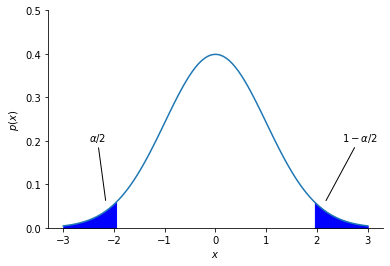
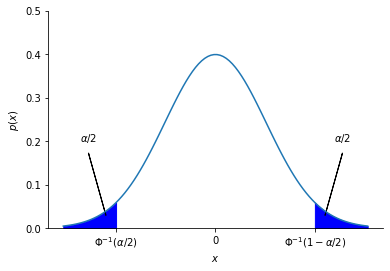
deploy: 66685e4f59727761f502bcd9a341b9cfc5183018

diff --git a/searchindex.js b/searchindex.js
@@ -1,1 +1,1 @@
-Search.setIndex({docnames:[".pytest_cache/README","CONTRIBUTING","GSOC2022","README","auto_generated_scripts/README","gan/README","intro","notebooks/README","notebooks/anscombes_quartet","notebooks/bimodal_dist_plot","notebooks/binom_dist_plot","notebooks/discrete_prob_dist_plot","notebooks/gauss_plot","notebooks/quantile_plot","pull_request_template","scratchpad","vae/README"],envversion:{"sphinx.domains.c":2,"sphinx.domains.changeset":1,"sphinx.domains.citation":1,"sphinx.domains.cpp":4,"sphinx.domains.index":1,"sphinx.domains.javascript":2,"sphinx.domains.math":2,"sphinx.domains.python":3,"sphinx.domains.rst":2,"sphinx.domains.std":2,"sphinx.ext.intersphinx":1,sphinx:56},filenames:[".pytest_cache/README.md","CONTRIBUTING.md","GSOC2022.md","README.md","auto_generated_scripts/README.md","gan/README.md","intro.md","notebooks/README.md","notebooks/anscombes_quartet.ipynb","notebooks/bimodal_dist_plot.ipynb","notebooks/binom_dist_plot.ipynb","notebooks/discrete_prob_dist_plot.ipynb","notebooks/gauss_plot.ipynb","notebooks/quantile_plot.ipynb","pull_request_template.md","scratchpad.ipynb","vae/README.md"],objects:{},objnames:{},objtypes:{},terms:{"0":[5,8,9,10,11,12,13,15,16],"00":[2,8],"00000":8,"000000":8,"007":3,"025":13,"03":1,"05":9,"0507":15,"0904383444185":15,"1":[1,2,3,5,7,8,9,10,11,12,13,15,16],"10":[1,8,10,11],"100":[10,13],"10012814134508047":15,"105":15,"106":15,"107":15,"109":15,"11":[8,11],"110":15,"12":[2,8,15],"12262":8,"123249":8,"127269":8,"127439":15,"127629":8,"13":8,"14":8,"15":15,"171":15,"172":15,"173":15,"174":15,"175":15,"18":2,"19":2,"2":[1,8,9,10,11,12,13,15],"20":[8,15],"2021":16,"2022":1,"21":15,"22":15,"2283":15,"23":15,"24":[8,15],"25":10,"2605":15,"264":8,"276":15,"277":15,"2f":8,"2x":15,"3":[3,5,8,12,13,15,16],"3106":15,"3f":8,"4":[2,5,8,10,11,15,16],"5":[8,9,10,11,12,13,15],"500":12,"50000":8,"500909":8,"512":16,"531":15,"532":15,"533":15,"534":15,"535":15,"587":15,"588":15,"589":15,"6":2,"600":[5,9,16],"64":16,"66429":15,"6733112":15,"67794997":15,"69480884":15,"7":[5,8,16],"70073":15,"71":15,"72":15,"73":15,"74":15,"74142355":15,"75":[8,10,15],"7896":15,"8":[5,8,15,16],"8476":15,"8605771":15,"890028194425":15,"9":[8,10,15],"90817920299":15,"92109627":15,"975":13,"99159336":15,"default":7,"do":[0,1,3],"final":9,"function":15,"import":[1,3,5,8,9,10,11,12,13,15,16],"int":10,"new":1,"null":3,"public":1,"return":[11,15],"try":[5,8,9,10,11,12,13,16],"var":8,"while":15,A:[1,16],For:[2,3,7],If:[1,2],In:[1,2,3,15],It:2,No:[8,9,10,11,12,13],The:[2,3,15],Then:[3,5,16],These:3,To:[3,7,15],_:11,__main__:15,__name__:15,_latexifi:[8,10],_multivariate_norm:15,_src:15,ab_error:15,ab_profit:15,ab_test_demo:15,abdelrahman350:3,about:2,abov:3,absl:[8,9,10,11,12,13],accept:1,access:3,account:3,acknowledg:3,adamnemecek:3,add:[1,2],addit:3,address:[5,16],advanc:2,adverseri:5,ae:16,after:1,agg:8,agre:1,aim:[5,16],alen1010:3,align:[10,11],all:[1,5,16],alpha:[13,15],alreadi:[1,3,15],also:[5,16],alwai:[2,3],an:[1,2,3,15],anand:[5,16],andrewnc:3,ang:[5,16],ani:[1,2,3,5,7,16],animesh:3,annot:13,annotate_funct:15,anoth:[9,11],anscombes_quartet_:8,anywai:1,appear:15,append:[8,9,10,11,12,13],appli:2,approxim:15,april:2,ar:[1,2,3,5,16],arang:[10,11],arrai:[11,15],arrowprop:13,arrowstyl:13,arviz:1,assum:3,august:2,author:[8,16],auto:4,autoencod:16,autogener:3,automat:[3,4],autoreload:[3,15],ax:[8,9,11,12],b:13,back:[1,8,9,10,11,12,13],backend:15,backend_compil:15,bar:[10,11],base:[5,15,16],baselin:15,bbox_to_anchor:9,befor:2,below:3,best:[1,2],beta:16,bfg:15,bimodaldistribution_latexifi:9,bimodalspike_latexifi:9,binom:10,binomdisttheta:10,bitcast:15,bitcast_convert_typ:15,black:9,blackjax:1,block:[5,16],blue:8,book:[1,2,3,6,8],both:9,broken:2,built_c:15,calcul:9,call:[2,15],can:[1,2,3,5,10,11,16],candid:2,canonicalize_shap:15,captur:1,categor:15,cd:15,cell:[1,3],center:[10,11],chain:15,chang:[3,10,11,15],chapter:3,check:[1,15],chex:1,chip:15,chmod:[5,16],clone:[1,3],close:2,cloud:3,code:[2,3,5,6,14,16],codebas:3,colab:[1,14],collect:[5,16],color:[8,9,13],com:[1,3,5,8,15,16],combin:[3,9],command:[3,7],commit:[0,1,2],common:1,commun:1,companion:3,compar:[5,8,16],comparison:[5,16],compil:15,compile_opt:15,comput:[5,15,16],concret:2,config:[5,16],consist:[5,16],contain:[0,3,4,15],content:3,context:15,control:[0,3],convent:1,convert:15,cool:[5,16],coord:15,copi:[1,5,16],core:15,core_on_chip:15,correct:2,correspond:9,count:8,cov:15,cp:[5,16],cpu:[3,8,9,10,11,12,13],creat:[1,3,5,16],cuda:[5,16],cut:3,d:[1,8,16],dai:[1,2],dash:9,dashdot:9,data1:9,data2:9,data:[0,8,9,10,12,15],data_df:8,dataset:[5,8,16],dataset_nam:8,dataset_no:8,dcgan:5,ddof:8,deepmind:1,def:[8,9,10,11,12,15],defin:9,delta_histogram_latexifi:11,delta_prob:11,demo:[3,15],demonstr:2,depend:[1,3],depth:3,design:[1,2],desktop:3,despin:[8,9,10,11,12,13],detail:[2,3],detect:3,dev:[1,3],dev_mod:[7,8,9,10,11,12,13],devic:[5,15,16],df:8,dict:[9,13],differ:[5,8,10,11,15,16],directori:3,discrete_prob_dist_plot:7,disk:15,dispatch:15,distrax:1,distribut:1,distrubut:9,dive:2,doc:[0,1,2],done:15,donwload:[5,16],down:2,download:3,download_celeba:[5,16],draft:[1,2],draw_stat:15,drishtii:8,drishttii:3,dtype:15,duane321:3,dure:3,e:[3,15],e_bas:15,each:3,easiest:3,edg:3,edit:3,editor:3,eekf_logistic_regression_demo:15,effici:2,einop:1,element:15,els:8,email:1,enabl:[5,16],encount:15,ensur:15,enumer:8,env:15,environ:[8,9,10,11,12,13,15],equival:7,error:2,estim:8,etc:3,evalu:9,everi:1,exampl:[1,2,3,5,7,9,10,11,16],except:[8,9,10,11,12,13],execut:[3,7],expect:3,extens:15,extern:1,extra:3,ey:15,eyebal:1,f64:15,f:8,facecolor:13,fall:[8,9,10,11,12,13],feel:2,ff:0,ffvb:15,ffvb_predictive_distribut:15,ffvb_weights_marginals_0:15,ffvb_weights_marginals_1:15,ffvb_weights_marginals_2:15,fig:[11,12,15],fig_height:[8,9,10,12,13],fig_siz:8,figur:[1,3,8,9,10,15],file:[1,3,4,15],filenam:3,fill_between:13,filter:15,final_st:15,find:2,finish:3,first:[1,5,9,16],fit:8,fixtur:0,flag:7,flatten:15,flax:1,float64:15,focu:[5,16],folder:[4,5,7,16],follow:[1,2,3,5,7,10,11,16],fork:1,format:[1,8,9],found:[2,8,9,10,11,12,13],frame:15,free:[2,3],from:[0,1,2,3,4,5,7,8,9,10,11,12,13,15,16],full:11,functool:1,g:[3,9],galv:3,gan:5,garvit9000c:3,gaussian1d_latexifi:12,gaussian:12,gaussiancdf_latexifi:12,gaussianquantile_latexifi:13,gca:[8,9],gener:[1,3,4,5],generate_random:[10,11],gerdm:[1,3],get:[1,3,5,16],gist:1,git:[1,3],github:[2,3,4,8,15],githubusercont:[3,5,16],give:3,go:7,goal:2,googl:[1,3,14,15],gp:5,gpu:[1,3,8,9,10,11,12,13],graph:[9,11],green:8,gui:7,guid:3,ha:[1,3],have:[2,3],here:[1,2],hidden:15,hieuza:3,high:2,hing:16,hlo:15,hour:2,how:2,howev:1,http:[1,3,5,8,15,16],i:[3,8,9],id:15,idea:[5,16],ii:8,iii:8,imag:[15,16],implement:[5,15,16],includ:1,independ:3,indic:1,individu:[1,3],info:[8,9,10,11,12,13,16],inform:[0,3],init_dist:15,init_nois:15,initial_st:15,input:15,insid:[1,3],instal:[1,3,8,9,10,11,12,13],instead:1,instruct:3,interact:[10,11],interest:1,intro:3,ipynb:7,ipython:7,ipywidget:[10,11],issu:[1,2,8,15],its:9,iv:8,jax:[1,2,3,8,9,10,11,12,13,15],jaxlib:[8,9,10,11,12,13],jdf22:3,jit:15,jlh2018:3,jnp:[1,8,9,10,11,12,13,15],jsl:[1,3,15],json:[5,16],june:2,jupyt:3,just:[1,3],k:[9,13,16],kaggl:[5,16],karalleyna:3,kei:[11,15],kevin:[1,3],keyword:1,kf_tracking_demo:[3,15],khanshehjad:3,krasserm:3,krishnamoorthi:[5,16],kzymgch:3,l2:15,label:9,lambda:15,laplac:15,laplace_posterior:15,larg:[1,2,3],last:[1,2,15],latexifi:[8,9,10,11,12,13],lax:15,learn:[2,3,8],least:2,legend:9,len:[9,11,15],leq:12,level:2,lf:0,liang:[5,16],lib:15,librari:[3,5,16],lightn:[5,16],like:[1,3],line:3,line_width:9,linear_model:8,linearregress:8,linen:1,linestyl:9,linewidth:9,link:[1,2,3,5,16],linspac:[8,9,11,12,13],list:[1,3],live:1,load:15,load_dataset:8,load_ext:[3,15],loc:9,localhost:15,logan:5,logcosh:16,logit:15,logreg_biclusters_demo:15,look:1,love:1,m:15,machin:[2,3,15],mahmoud:1,mai:[1,2],main:[1,2,15],make:[1,3,5,16],make_graph:[8,9,10,11,12],mani:[5,16],manual:3,markov:15,mass:11,master:[3,5,16],materi:3,mathcal:9,matplotlib:[1,8,9,10,11,12,13],max:[9,10,11],mcmc:15,mcmc_logistic_posterior_sampl:15,mean:[1,8,9,15],mean_i:8,mean_p:9,mean_x:8,meduri:3,mention:[1,3],merg:2,metadata:15,method:15,min:[10,11],ming:[5,16],minim:15,mit:1,mjsml:[1,3],mkdir:[5,16],ml:2,mle:8,mmd:16,mnt:15,mode:[1,9],model:8,modul:15,mondai:2,more:[0,1,3,8,9,10,11,12,13],most:[3,15],mu:9,multipl:[1,2],multivariate_norm:15,murphi:[1,3],murphyk:[1,3],mvervuurt:3,my:2,my_repo:1,n:[8,9,10,11,15,16],name:[1,8],name_index:8,nappaillav:3,nbinom:10,nealmcb:3,necessari:1,need:[1,3],neoanarika:[3,5],network:[1,5],neural:1,new_dtyp:15,newbie161:3,nirzu97:3,nn:1,none:[8,9,11,15],norm:[9,12,13],normal:[7,9],note:[1,3],notebook:[1,4],np:1,num:8,numpi:[1,8,9,10,11,12,13,15],one:[1,2,3,11],onli:1,op_nam:15,op_typ:15,open:[1,2,3],optax:1,option:[0,15],orang:8,origin:16,os:[8,9,10,11,12,13,15],other:3,our:[2,3],p:[9,10,12,13],packag:[1,3,15],page:3,paper:[5,16],partial:1,particular:1,past:[3,5,16],patch:1,path:[8,9,10,11,12,13],patrick:3,pdf:[7,8,9,10,11,15],peopl:[1,2,3],pep8:1,per:[3,15],perform:14,persist:15,petercerno:3,phi:15,pick:15,pip:[1,3,8,9,10,11,12,13],pixelcnn:16,place:4,platform:3,pleas:[1,2],plot:[3,8,9],plot_util:[8,9,10,11,12,13,15],plt:[1,8,9,10,11,12,13,15],plugin:0,pml:8,png:15,point:9,port:15,power:3,ppf:13,pr:[1,2,11,12],prahitha:3,pre:3,predict:8,present:4,prev_stat:15,print:[8,15],prngkei:[11,15],prob:[10,11],probabilist:[2,3],probml:[1,3,5,8,16],process:15,process_index:15,profil:15,progress:3,project1:15,project:[1,2,5,16],propos:2,provid:[0,3,5,16],pull:[1,2],py:[1,3,5,15,16],pyplot:[1,8,9,10,11,12,13],pyprobml:[1,2,5,15,16],python3:[3,15],python:[1,3,5,15,16],pytorch:[1,5,16],q:[3,5,16],question:2,quick:[5,16],quickli:1,quit:[1,2,3],r:[9,10,13],rais:2,random:[11,15],random_st:11,random_var:12,rang:9,raw:[3,5,16],re:15,read:2,readabl:2,readi:1,recent:15,recommend:2,reconstruct:16,red:[8,9],refer:1,releas:1,relev:2,reload:15,reload_ext:15,remain:3,repeat:11,repli:1,repo:[1,2,3,7],reproduc:[3,5,16],request:[1,2],requir:3,rerun:[8,9,10,11,12,13],reshap:8,respons:1,result:[3,15],reusabl:[5,16],review:[1,14],rewrit:15,rm:[5,16],rng:15,rng_kei:15,rng_ob:15,rng_state:15,root:[5,7,16],rough:3,run:[1,2,5,7,15,16],runtim:3,runtimeerror:15,s:[0,1,2],same:2,sampl:[5,15,16],save:[3,15],save_nam:[11,12],savefig:[8,9,10,11,12,13,15],sayantanauddi:[5,16],scale:9,scan:15,scatter:8,scatter_s:8,scikit:[3,8],scipi:[1,9,10,12,13,15],script:[4,5,8,9,10,11,12,13,15,16],seaborn:[8,9,10,11,12,13],second:[9,15],section:2,see:[0,1,2,3,10,11],seed:11,self:14,separ:15,seq_len:15,seri:[1,3],set:[1,8,9,10,11,12,13],set_titl:8,set_xlabel:[8,11],set_xlim:[8,11],set_xtick:11,set_ylabel:[8,11],set_ylim:8,set_ytick:11,shape:[11,15],share:[1,2],shivaditya:3,should:[1,2,3],show:[11,13,15],sigma:[9,16],similar:1,simpl:[5,16],sinc:3,singl:1,site:15,skill:2,skip:15,sklearn:[1,8],smaller:1,smooth:15,sn:[8,9,10,11,12,13,15],sngan:5,so:[1,2,3],softmax_plot:3,soliman:1,solut:[1,15],solv:2,some:[1,2,3,5,16],someth:1,sort_valu:8,sourc:1,source_fil:15,source_lin:15,space:3,special:15,specifi:2,split:15,squash:1,ssh:3,stage:16,standard:1,stat:[9,10,12,13],state:[3,15],still:1,store:[1,3],str:10,strongli:2,style:1,submit:1,subplot:[11,12],subproblem:2,substrat:1,sum:[9,11],summari:3,summer:[2,3,16],superimport:[1,3],supplementari:3,sure:[1,3,5,16],sy:[8,9,10,11,12,13],tab:8,tackl:[1,2],tag:2,take:4,tensorflow:[1,2,3],tensorflow_dataset:1,tensorflow_prob:1,test:[1,14],textbook:[2,5,16],tf:1,tf_cpp_min_log_level:[8,9,10,11,12,13],tfd:1,tfp:1,than:3,thank:3,thei:[1,3],them:1,theta:10,thi:[0,1,3,4,15],thread:2,time:[1,2],titl:[10,12],to_numpi:8,togeth:3,topic:2,torch:3,tpu:[8,9,10,11,12,13],tpu_chips_per_host_bound:15,tpu_host_bound:15,tpu_mesh_controller_address:15,tpu_mesh_controller_port:15,tpu_visible_devic:15,tpudevic:15,traceback:15,trans_mat:15,transform:[5,16],trick:[5,16],tripletop:3,tuesdai:2,tutori:[1,3],two:[8,16],type:[1,15],typic:1,typo:2,u64:15,unbias:8,under:1,uniform:11,uniform_histogram_latexifi:11,uniform_prob:11,unimpl:15,uniqu:[8,15],updat:1,upgrad:1,url:[3,5,16],us:[1,3,5,7,15,16],user:1,utc:2,vae:[5,16],valu:[8,11],vanilla_va:16,varianc:8,variat:16,variou:3,vb_gauss_cholesky_biclusters_demo:15,version:[0,3],via:[3,4],view:3,virtual:3,vline:9,vm:3,volum:3,vq:16,vscode:3,w0:15,w:15,w_laplac:15,wai:3,want:[1,3],warn:[8,9,10,11,12,13],we:[1,3,5,15,16],websti:[5,16],week:2,weight:[9,15],well:0,were:[5,16],wgan:5,wget:[3,5,16],what:[5,16],when:[1,3],whether:3,which:[0,3,15],width_scale_factor:[8,9,10,11,12,13],within:1,without:7,work:[1,3,5,15,16],workflow:4,would:3,write:[1,2],written:5,x64:15,x:[8,9,10,11,12,13,15],x_fill_left:13,x_fill_right:13,x_rang:8,x_sep_left:13,x_sep_right:13,xla:15,xlabel:[9,10,12,13],xlim:10,xtick:10,xy:13,xytext:13,y:[8,12,15],y_pred:8,yaml:[5,16],yet:3,ylabel:[9,10,12,13],ylim:[10,13],ymax:9,ymin:9,you:[1,2,3,10,11],your:[1,2,5,16],zero:15,zipfil:[5,16],zone:2,zoo:[5,16]},titles:["pytest cache directory","How to Contribute","Guidelines for GSOC 2022 applicants","pyprobml","&lt;no title&gt;","Requirements","Probabilistic Machine Learning","Notebooks","Anscombe\u2019s quartet: Same low order summary statistics","Bimodal distribution (mixture of two 1d Gaussians)","Plots the pmfs of binomial distributions with varying probability of success parameter","Discrete Probability Distribution Plot","CDF and PDF plots of Standard Normal Distribution","CDF and Quantile PDF Plot of Standard Normal Distribution","Description","&lt;no title&gt;","Requirements"],titleterms:{"1d":9,"2":3,"2021":3,"2022":2,"import":14,For:[5,16],The:[5,16],To:[5,16],acknowledg:[5,16],agreement:1,all:3,anscomb:8,applic:2,bimod:9,binomi:10,cach:0,cdf:[12,13],celeba:[5,16],checklist:14,code:1,colab:3,contribut:[1,3],contributor:1,data:[5,16],demo:[10,11],descript:14,develop:7,directori:0,discret:11,distribut:[9,10,11,12,13],download:[5,16],figur:[7,14],gaussian:9,gcp:3,gener:7,github:1,gsoc:[2,3],guidelin:[1,2],how:[1,3],instruct:[5,7,16],issu:14,learn:6,licens:1,local:[3,7],low:8,machin:6,metric:3,mixtur:9,model:[5,16],normal:[12,13],notebook:[3,7],number:14,onli:[5,16],order:8,paramet:10,pdf:[12,13],plot:[10,11,12,13],pmf:10,potenti:14,probabilist:6,probabl:[10,11],problem:14,pyprobml:3,pytest:0,quantil:13,quartet:8,remark:14,requir:[5,16],result:[5,16],run:3,s:8,same:8,save:7,script:3,standard:[12,13],statist:8,step:14,subdirectori:[5,16],success:10,summari:8,them:7,thi:[5,16],tpu:3,train:[5,16],two:9,vari:10,vol:3}})
+Search.setIndex({docnames:[".pytest_cache/README","CONTRIBUTING","GSOC2022","README","auto_generated_scripts/README","gan/README","intro","notebooks/README","notebooks/anscombes_quartet","notebooks/bimodal_dist_plot","notebooks/binom_dist_plot","notebooks/discrete_prob_dist_plot","notebooks/gauss_plot","notebooks/quantile_plot","pull_request_template","scratchpad","vae/README"],envversion:{"sphinx.domains.c":2,"sphinx.domains.changeset":1,"sphinx.domains.citation":1,"sphinx.domains.cpp":4,"sphinx.domains.index":1,"sphinx.domains.javascript":2,"sphinx.domains.math":2,"sphinx.domains.python":3,"sphinx.domains.rst":2,"sphinx.domains.std":2,"sphinx.ext.intersphinx":1,sphinx:56},filenames:[".pytest_cache/README.md","CONTRIBUTING.md","GSOC2022.md","README.md","auto_generated_scripts/README.md","gan/README.md","intro.md","notebooks/README.md","notebooks/anscombes_quartet.ipynb","notebooks/bimodal_dist_plot.ipynb","notebooks/binom_dist_plot.ipynb","notebooks/discrete_prob_dist_plot.ipynb","notebooks/gauss_plot.ipynb","notebooks/quantile_plot.ipynb","pull_request_template.md","scratchpad.ipynb","vae/README.md"],objects:{},objnames:{},objtypes:{},terms:{"0":[5,8,9,10,11,12,13,15,16],"00":[2,8],"00000":8,"000000":8,"007":3,"025":13,"03":1,"05":9,"0507":15,"0904383444185":15,"1":[1,2,3,5,7,8,9,10,11,12,13,15,16],"10":[1,8,10,11],"100":[10,13],"10012814134508047":15,"105":15,"106":15,"107":15,"109":15,"11":[8,11],"110":15,"12":[2,8,15],"12262":8,"123249":8,"127269":8,"127439":15,"127629":8,"13":8,"14":8,"15":15,"171":15,"172":15,"173":15,"174":15,"175":15,"18":2,"19":2,"2":[1,8,9,10,11,12,13,15],"20":[8,15],"2021":16,"2022":1,"21":15,"22":15,"2283":15,"23":15,"24":[8,15],"25":10,"2605":15,"264":8,"276":15,"277":15,"2f":8,"2x":15,"3":[3,5,8,12,13,15,16],"3106":15,"3f":8,"4":[2,5,8,10,11,15,16],"5":[8,9,10,11,12,13,15],"500":12,"50000":8,"500909":8,"512":16,"531":15,"532":15,"533":15,"534":15,"535":15,"587":15,"588":15,"589":15,"6":2,"600":[5,9,16],"64":16,"66429":15,"6733112":15,"67794997":15,"69480884":15,"7":[5,8,16],"70073":15,"71":15,"72":15,"73":15,"74":15,"74142355":15,"75":[8,10,15],"7896":15,"8":[5,8,15,16],"8476":15,"8605771":15,"890028194425":15,"9":[8,10,15],"90817920299":15,"92109627":15,"975":13,"99159336":15,"default":7,"do":[0,1,3],"final":9,"function":15,"import":[1,3,5,8,9,10,11,12,13,15,16],"int":10,"new":1,"null":3,"public":1,"return":[11,15],"try":[5,8,9,10,11,12,13,16],"var":8,"while":15,A:[1,16],For:[2,3,7],If:[1,2],In:[1,2,3,15],It:2,No:[8,9,10,11,12,13],The:[2,3,15],Then:[3,5,16],These:3,To:[3,7,15],_:11,__main__:15,__name__:15,_latexifi:[8,10],_multivariate_norm:15,_src:15,ab_error:15,ab_profit:15,ab_test_demo:15,abdelrahman350:3,about:2,abov:3,absl:[8,9,10,11,12,13],accept:1,access:3,account:3,acknowledg:3,adamnemecek:3,add:[1,2],addit:3,address:[5,16],advanc:2,adverseri:5,ae:16,after:1,agg:8,agre:1,aim:[5,16],alen1010:3,align:[10,11],all:[1,5,16],alpha:[13,15],alreadi:[1,3,15],also:[5,16],alwai:[2,3],an:[1,2,3,15],anand:[5,16],andrewnc:3,ang:[5,16],ani:[1,2,3,5,7,16],animesh:3,annotate_funct:15,anoth:[9,11],anscombes_quartet_:8,anywai:1,appear:15,append:[8,9,10,11,12,13],appli:2,approxim:15,april:2,ar:[1,2,3,5,16],arang:[10,11],arrai:[11,15],arrow:13,arrow_x_left:13,arrow_x_right:13,arrow_y_left:13,arrow_y_right:13,arviz:1,assum:3,august:2,author:[8,16],auto:4,autoencod:16,autogener:3,automat:[3,4],autoreload:[3,15],ax:[8,9,11,12,13],b:13,back:[1,8,9,10,11,12,13],backend:15,backend_compil:15,bar:[10,11],base:[5,15,16],baselin:15,bbox_to_anchor:9,befor:2,below:3,best:[1,2],beta:16,bfg:15,bimodaldistribution_latexifi:9,bimodalspike_latexifi:9,binom:10,binomdisttheta:10,bitcast:15,bitcast_convert_typ:15,black:9,blackjax:1,block:[5,16],blue:8,book:[1,2,3,6,8],both:9,broken:2,built_c:15,calcul:9,call:[2,15],can:[1,2,3,5,10,11,16],candid:2,canonicalize_shap:15,captur:1,categor:15,cd:15,cell:[1,3],center:[10,11,13],chain:15,chang:[3,10,11,15],chapter:3,check:[1,15],chex:1,chip:15,chmod:[5,16],clone:[1,3],close:2,cloud:3,code:[2,3,5,6,14,16],codebas:3,colab:[1,14],collect:[5,16],color:[8,9,13],com:[1,3,5,8,15,16],combin:[3,9],command:[3,7],commit:[0,1,2],common:1,commun:1,companion:3,compar:[5,8,16],comparison:[5,16],compil:15,compile_opt:15,comput:[5,15,16],concret:2,config:[5,16],consist:[5,16],contain:[0,3,4,15],content:3,context:15,control:[0,3],convent:1,convert:15,cool:[5,16],coord:15,copi:[1,5,16],core:15,core_on_chip:15,correct:2,correspond:9,count:8,cov:15,cp:[5,16],cpu:[3,8,9,10,11,12,13],creat:[1,3,5,16],cuda:[5,16],cut:3,d:[1,8,16],dai:[1,2],dash:9,dashdot:9,data1:9,data2:9,data:[0,8,9,10,12,15],data_df:8,dataset:[5,8,16],dataset_nam:8,dataset_no:8,dcgan:5,ddof:8,deepmind:1,def:[8,9,10,11,12,15],defin:9,delta_histogram_latexifi:11,delta_prob:11,demo:[3,15],demonstr:2,depend:[1,3],depth:3,design:[1,2],desktop:3,despin:[8,9,10,11,12,13],detail:[2,3],detect:3,dev:[1,3],dev_mod:[7,8,9,10,11,12,13],devic:[5,15,16],df:8,dict:9,differ:[5,8,10,11,15,16],directori:3,discrete_prob_dist_plot:7,disk:15,dispatch:15,distrax:1,distribut:1,distrubut:9,dive:2,doc:[0,1,2],done:15,donwload:[5,16],down:2,download:3,download_celeba:[5,16],draft:[1,2],draw_stat:15,drishtii:8,drishttii:3,dtype:15,duane321:3,dure:3,e:[3,15],e_bas:15,each:3,easiest:3,edg:3,edit:3,editor:3,eekf_logistic_regression_demo:15,effici:2,einop:1,element:15,els:8,email:1,enabl:[5,16],encount:15,ensur:15,enumer:8,env:15,environ:[8,9,10,11,12,13,15],equival:7,error:2,estim:8,etc:3,evalu:9,everi:1,exampl:[1,2,3,5,7,9,10,11,16],except:[8,9,10,11,12,13],execut:[3,7],expect:3,extens:15,extern:1,extra:3,ey:15,eyebal:1,f64:15,f:8,fall:[8,9,10,11,12,13],feel:2,ff:0,ffvb:15,ffvb_predictive_distribut:15,ffvb_weights_marginals_0:15,ffvb_weights_marginals_1:15,ffvb_weights_marginals_2:15,fig:[11,12,15],fig_height:[8,9,10,12,13],fig_siz:8,figur:[1,3,8,9,10,15],file:[1,3,4,15],filenam:3,fill_between:13,filter:15,final_st:15,find:2,finish:3,first:[1,5,9,16],fit:8,fixtur:0,flag:7,flatten:15,flax:1,float64:15,focu:[5,16],folder:[4,5,7,16],follow:[1,2,3,5,7,10,11,16],fork:1,format:[1,8,9],found:[2,8,9,10,11,12,13],frame:15,free:[2,3],from:[0,1,2,3,4,5,7,8,9,10,11,12,13,15,16],full:11,functool:1,g:[3,9],galv:3,gan:5,garvit9000c:3,gaussian1d_latexifi:12,gaussian:12,gaussiancdf_latexifi:12,gaussianquantile_latexifi:13,gca:[8,9,13],gener:[1,3,4,5],generate_random:[10,11],gerdm:[1,3],get:[1,3,5,16],gist:1,git:[1,3],github:[2,3,4,8,15],githubusercont:[3,5,16],give:3,go:7,goal:2,googl:[1,3,14,15],gp:5,gpu:[1,3,8,9,10,11,12,13],graph:[9,11],green:8,gui:7,guid:3,ha:[1,3],have:[2,3],here:[1,2],hidden:15,hieuza:3,high:2,hing:16,hlo:15,horizontalalign:13,hour:2,how:2,howev:1,http:[1,3,5,8,15,16],i:[3,8,9],id:15,idea:[5,16],ii:8,iii:8,imag:[15,16],implement:[5,15,16],includ:1,independ:3,indic:1,individu:[1,3],info:[8,9,10,11,12,13,16],inform:[0,3],init_dist:15,init_nois:15,initial_st:15,input:15,insid:[1,3],instal:[1,3,8,9,10,11,12,13],instead:1,instruct:3,interact:[10,11],interest:1,intro:3,ipynb:7,ipython:7,ipywidget:[10,11],issu:[1,2,8,15],its:9,iv:8,jax:[1,2,3,8,9,10,11,12,13,15],jaxlib:[8,9,10,11,12,13],jdf22:3,jit:15,jlh2018:3,jnp:[1,8,9,10,11,12,13,15],jsl:[1,3,15],json:[5,16],june:2,jupyt:3,just:[1,3],k:[9,16],kaggl:[5,16],karalleyna:3,kei:[11,15],kevin:[1,3],keyword:1,kf_tracking_demo:[3,15],khanshehjad:3,krasserm:3,krishnamoorthi:[5,16],kzymgch:3,l2:15,label:9,lambda:15,laplac:15,laplace_posterior:15,larg:[1,2,3],last:[1,2,15],latexifi:[8,9,10,11,12,13],lax:15,learn:[2,3,8],least:2,legend:9,len:[9,11,15],leq:12,level:2,lf:0,liang:[5,16],lib:15,librari:[3,5,16],lightn:[5,16],like:[1,3],line:3,line_width:9,linear_model:8,linearregress:8,linen:1,linestyl:9,linewidth:9,link:[1,2,3,5,16],linspac:[8,9,11,12,13],list:[1,3],live:1,load:15,load_dataset:8,load_ext:[3,15],loc:9,localhost:15,logan:5,logcosh:16,logit:15,logreg_biclusters_demo:15,look:1,love:1,m:15,machin:[2,3,15],mahmoud:1,mai:[1,2],main:[1,2,15],make:[1,3,5,16],make_graph:[8,9,10,11,12],mani:[5,16],manual:3,markov:15,mass:11,master:[3,5,16],materi:3,mathcal:9,matplotlib:[1,8,9,10,11,12,13],max:[9,10,11],mcmc:15,mcmc_logistic_posterior_sampl:15,mean:[1,8,9,15],mean_i:8,mean_p:9,mean_x:8,meduri:3,mention:[1,3],merg:2,metadata:15,method:15,min:[10,11],ming:[5,16],minim:15,mit:1,mjsml:[1,3],mkdir:[5,16],ml:2,mle:8,mmd:16,mnt:15,mode:[1,9],model:8,modul:15,mondai:2,more:[0,1,3,8,9,10,11,12,13],most:[3,15],mu:9,multipl:[1,2],multivariate_norm:15,murphi:[1,3],murphyk:[1,3],mvervuurt:3,my:2,my_repo:1,n:[8,9,10,11,15,16],name:[1,8],name_index:8,nappaillav:3,nbinom:10,nealmcb:3,necessari:1,need:[1,3],neoanarika:[3,5],network:[1,5],neural:1,new_dtyp:15,newbie161:3,nirzu97:3,nn:1,none:[8,9,11,15],norm:[9,12,13],normal:[7,9],note:[1,3],notebook:[1,4],np:1,num:8,numpi:[1,8,9,10,11,12,13,15],one:[1,2,3,11],onli:1,op_nam:15,op_typ:15,open:[1,2,3],optax:1,option:[0,15],orang:8,origin:16,os:[8,9,10,11,12,13,15],other:3,our:[2,3],p:[9,10,12,13],packag:[1,3,15],page:3,paper:[5,16],partial:1,particular:1,past:[3,5,16],patch:1,path:[8,9,10,11,12,13],patrick:3,pdf:[7,8,9,10,11,15],peopl:[1,2,3],pep8:1,per:[3,15],perform:14,persist:15,petercerno:3,phi:[13,15],pick:15,pip:[1,3,8,9,10,11,12,13],pixelcnn:16,place:4,platform:3,pleas:[1,2],plot:[3,8,9],plot_util:[8,9,10,11,12,13,15],plt:[1,8,9,10,11,12,13,15],plugin:0,pml:8,png:15,point:9,port:15,power:3,ppf:13,pr:[1,2,11,12],prahitha:3,pre:3,predict:8,present:4,prev_stat:15,print:[8,15],prngkei:[11,15],prob:[10,11],probabilist:[2,3],probml:[1,3,5,8,16],process:15,process_index:15,profil:15,progress:3,project1:15,project:[1,2,5,16],propos:2,provid:[0,3,5,16],pull:[1,2],py:[1,3,5,15,16],pyplot:[1,8,9,10,11,12,13],pyprobml:[1,2,5,15,16],python3:[3,15],python:[1,3,5,15,16],pytorch:[1,5,16],q:[3,5,16],question:2,quick:[5,16],quickli:1,quit:[1,2,3],r:[9,10,13],rais:2,random:[11,15],random_st:11,random_var:12,rang:9,raw:[3,5,16],re:15,read:2,readabl:2,readi:1,recent:15,recommend:2,reconstruct:16,red:[8,9],refer:1,releas:1,relev:2,reload:15,reload_ext:15,remain:3,repeat:11,repli:1,repo:[1,2,3,7],reproduc:[3,5,16],request:[1,2],requir:3,rerun:[8,9,10,11,12,13],reshap:8,respons:1,result:[3,15],reusabl:[5,16],review:[1,14],rewrit:15,rm:[5,16],rng:15,rng_kei:15,rng_ob:15,rng_state:15,root:[5,7,16],rough:3,run:[1,2,5,7,15,16],runtim:3,runtimeerror:15,s:[0,1,2],same:2,sampl:[5,15,16],save:[3,15],save_nam:[11,12],savefig:[8,9,10,11,12,13,15],sayantanauddi:[5,16],scale:9,scan:15,scatter:8,scatter_s:8,scikit:[3,8],scipi:[1,9,10,12,13,15],script:[4,5,8,9,10,11,12,13,15,16],seaborn:[8,9,10,11,12,13],second:[9,15],section:2,see:[0,1,2,3,10,11],seed:11,self:14,separ:15,seq_len:15,seri:[1,3],set:[1,8,9,10,11,12,13],set_titl:8,set_xlabel:[8,11],set_xlim:[8,11],set_xtick:[11,13],set_xticklabel:13,set_ylabel:[8,11],set_ylim:8,set_ytick:11,shape:[11,15],share:[1,2],shivaditya:3,should:[1,2,3],show:[11,15],sigma:[9,16],similar:1,simpl:[5,16],sinc:3,singl:1,site:15,skill:2,skip:15,sklearn:[1,8],smaller:1,smooth:15,sn:[8,9,10,11,12,13,15],sngan:5,so:[1,2,3],softmax_plot:3,soliman:1,solut:[1,15],solv:2,some:[1,2,3,5,16],someth:1,sort_valu:8,sourc:1,source_fil:15,source_lin:15,space:3,special:15,specifi:2,split:15,squash:1,ssh:3,stage:16,standard:1,stat:[9,10,12,13],state:[3,15],still:1,store:[1,3],str:10,strongli:2,style:1,submit:1,subplot:[11,12],subproblem:2,substrat:1,sum:[9,11],summari:3,summer:[2,3,16],superimport:[1,3],supplementari:3,sure:[1,3,5,16],sy:[8,9,10,11,12,13],tab:8,tackl:[1,2],tag:2,take:4,tensorflow:[1,2,3],tensorflow_dataset:1,tensorflow_prob:1,test:[1,14],text:13,textbook:[2,5,16],tf:1,tf_cpp_min_log_level:[8,9,10,11,12,13],tfd:1,tfp:1,than:3,thank:3,thei:[1,3],them:1,theta:10,thi:[0,1,3,4,15],thread:2,time:[1,2],titl:[10,12],to_numpi:8,togeth:3,topic:2,torch:3,tpu:[8,9,10,11,12,13],tpu_chips_per_host_bound:15,tpu_host_bound:15,tpu_mesh_controller_address:15,tpu_mesh_controller_port:15,tpu_visible_devic:15,tpudevic:15,traceback:15,trans_mat:15,transform:[5,16],trick:[5,16],tripletop:3,tuesdai:2,tutori:[1,3],two:[8,16],type:[1,15],typic:1,typo:2,u64:15,unbias:8,under:1,uniform:11,uniform_histogram_latexifi:11,uniform_prob:11,unimpl:15,uniqu:[8,15],updat:1,upgrad:1,url:[3,5,16],us:[1,3,5,7,15,16],user:1,utc:2,vae:[5,16],valu:[8,11],vanilla_va:16,varianc:8,variat:16,variou:3,vb_gauss_cholesky_biclusters_demo:15,version:[0,3],via:[3,4],view:3,virtual:3,vline:9,vm:3,volum:3,vq:16,vscode:3,w0:15,w:15,w_laplac:15,wai:3,want:[1,3],warn:[8,9,10,11,12,13],we:[1,3,5,15,16],websti:[5,16],week:2,weight:[9,15],well:0,were:[5,16],wgan:5,wget:[3,5,16],what:[5,16],when:[1,3],whether:3,which:[0,3,15],width_scale_factor:[8,9,10,11,12,13],within:1,without:7,work:[1,3,5,15,16],workflow:4,would:3,write:[1,2],written:5,x64:15,x:[8,9,10,11,12,13,15],x_fill_left:13,x_fill_right:13,x_rang:8,x_sep_left:13,x_sep_right:13,xla:15,xlabel:[9,10,12,13],xlim:10,xtick:10,y:[8,12,15],y_pred:8,yaml:[5,16],yet:3,ylabel:[9,10,12,13],ylim:[10,13],ymax:9,ymin:9,you:[1,2,3,10,11],your:[1,2,5,16],zero:15,zipfil:[5,16],zone:2,zoo:[5,16]},titles:["pytest cache directory","How to Contribute","Guidelines for GSOC 2022 applicants","pyprobml","&lt;no title&gt;","Requirements","Probabilistic Machine Learning","Notebooks","Anscombe\u2019s quartet: Same low order summary statistics","Bimodal distribution (mixture of two 1d Gaussians)","Plots the pmfs of binomial distributions with varying probability of success parameter","Discrete Probability Distribution Plot","CDF and PDF plots of Standard Normal Distribution","CDF and Quantile PDF Plot of Standard Normal Distribution","Description","&lt;no title&gt;","Requirements"],titleterms:{"1d":9,"2":3,"2021":3,"2022":2,"import":14,For:[5,16],The:[5,16],To:[5,16],acknowledg:[5,16],agreement:1,all:3,anscomb:8,applic:2,bimod:9,binomi:10,cach:0,cdf:[12,13],celeba:[5,16],checklist:14,code:1,colab:3,contribut:[1,3],contributor:1,data:[5,16],demo:[10,11],descript:14,develop:7,directori:0,discret:11,distribut:[9,10,11,12,13],download:[5,16],figur:[7,14],gaussian:9,gcp:3,gener:7,github:1,gsoc:[2,3],guidelin:[1,2],how:[1,3],instruct:[5,7,16],issu:14,learn:6,licens:1,local:[3,7],low:8,machin:6,metric:3,mixtur:9,model:[5,16],normal:[12,13],notebook:[3,7],number:14,onli:[5,16],order:8,paramet:10,pdf:[12,13],plot:[10,11,12,13],pmf:10,potenti:14,probabilist:6,probabl:[10,11],problem:14,pyprobml:3,pytest:0,quantil:13,quartet:8,remark:14,requir:[5,16],result:[5,16],run:3,s:8,same:8,save:7,script:3,standard:[12,13],statist:8,step:14,subdirectori:[5,16],success:10,summari:8,them:7,thi:[5,16],tpu:3,train:[5,16],two:9,vari:10,vol:3}})

diff --git a/notebooks/quantile_plot.html b/notebooks/quantile_plot.html
@@ -249,9 +249,7 @@ const thebe_selector_output = ".output, .cell_output"
 <h1>CDF and Quantile PDF Plot of Standard Normal Distribution<a class="headerlink" href="#cdf-and-quantile-pdf-plot-of-standard-normal-distribution" title="Permalink to this headline">¶</a></h1>
 <div class="cell docutils container">
 <div class="cell_input docutils container">
-<div class="highlight-ipython3 notranslate"><div class="highlight"><pre><span></span><span class="kn">import</span> <span class="nn">os</span>
-
-<span class="k">try</span><span class="p">:</span>
+<div class="highlight-ipython3 notranslate"><div class="highlight"><pre><span></span><span class="k">try</span><span class="p">:</span>
     <span class="kn">import</span> <span class="nn">jax</span>
 <span class="k">except</span><span class="p">:</span>
     <span class="o">%</span><span class="k">pip</span> install jax jaxlib
@@ -277,7 +275,8 @@ const thebe_selector_output = ".output, .cell_output"
 </div>
 <div class="cell tag_hide-input docutils container">
 <div class="cell_input docutils container">
-<div class="highlight-ipython3 notranslate"><div class="highlight"><pre><span></span><span class="n">dev_mode</span> <span class="o">=</span> <span class="s2">&quot;DEV_MODE&quot;</span> <span class="ow">in</span> <span class="n">os</span><span class="o">.</span><span class="n">environ</span>
+<div class="highlight-ipython3 notranslate"><div class="highlight"><pre><span></span><span class="kn">import</span> <span class="nn">os</span>
+<span class="n">dev_mode</span> <span class="o">=</span> <span class="s2">&quot;DEV_MODE&quot;</span> <span class="ow">in</span> <span class="n">os</span><span class="o">.</span><span class="n">environ</span>
 
 <span class="k">if</span> <span class="n">dev_mode</span><span class="p">:</span>
     <span class="kn">import</span> <span class="nn">sys</span>
@@ -301,28 +300,33 @@ const thebe_selector_output = ".output, .cell_output"
 <span class="n">x_fill_right</span> <span class="o">=</span> <span class="n">jnp</span><span class="o">.</span><span class="n">linspace</span><span class="p">(</span><span class="n">x_sep_right</span><span class="p">,</span> <span class="mi">3</span><span class="p">,</span> <span class="mi">100</span><span class="p">)</span>
 <span class="n">plt</span><span class="o">.</span><span class="n">fill_between</span><span class="p">(</span><span class="n">x_fill_left</span><span class="p">,</span> <span class="n">norm</span><span class="o">.</span><span class="n">pdf</span><span class="p">(</span><span class="n">x_fill_left</span><span class="p">),</span> <span class="n">color</span><span class="o">=</span><span class="s2">&quot;b&quot;</span><span class="p">)</span>
 <span class="n">plt</span><span class="o">.</span><span class="n">fill_between</span><span class="p">(</span><span class="n">x_fill_right</span><span class="p">,</span> <span class="n">norm</span><span class="o">.</span><span class="n">pdf</span><span class="p">(</span><span class="n">x_fill_right</span><span class="p">),</span> <span class="n">color</span><span class="o">=</span><span class="s2">&quot;b&quot;</span><span class="p">)</span>
-<span class="n">plt</span><span class="o">.</span><span class="n">annotate</span><span class="p">(</span>
-    <span class="sa">r</span><span class="s2">&quot;$\alpha/2$&quot;</span><span class="p">,</span>
-    <span class="n">xy</span><span class="o">=</span><span class="p">(</span><span class="n">x_sep_left</span><span class="o">-</span><span class="mf">0.2</span><span class="p">,</span> <span class="n">norm</span><span class="o">.</span><span class="n">pdf</span><span class="p">(</span><span class="n">x_sep_left</span><span class="p">)),</span>
-    <span class="n">xytext</span><span class="o">=</span><span class="p">(</span><span class="o">-</span><span class="mf">2.5</span><span class="p">,</span> <span class="mf">0.2</span><span class="p">),</span>
-    <span class="n">arrowprops</span><span class="o">=</span><span class="nb">dict</span><span class="p">(</span><span class="n">facecolor</span><span class="o">=</span><span class="s2">&quot;k&quot;</span><span class="p">,</span> <span class="n">arrowstyle</span> <span class="o">=</span> <span class="s1">&#39;-&#39;</span><span class="p">),</span>
-<span class="p">)</span>
 
-<span class="n">plt</span><span class="o">.</span><span class="n">annotate</span><span class="p">(</span>
-    <span class="sa">r</span><span class="s2">&quot;$1-\alpha/2$&quot;</span><span class="p">,</span>
-    <span class="n">xy</span><span class="o">=</span><span class="p">(</span><span class="n">x_sep_right</span><span class="o">+</span><span class="mf">0.2</span><span class="p">,</span> <span class="n">norm</span><span class="o">.</span><span class="n">pdf</span><span class="p">(</span><span class="n">x_sep_right</span><span class="p">)),</span>
-    <span class="n">xytext</span><span class="o">=</span><span class="p">(</span><span class="mf">2.5</span><span class="p">,</span> <span class="mf">0.2</span><span class="p">),</span>
-    <span class="n">arrowprops</span><span class="o">=</span><span class="nb">dict</span><span class="p">(</span><span class="n">facecolor</span><span class="o">=</span><span class="s2">&quot;k&quot;</span><span class="p">,</span> <span class="n">arrowstyle</span> <span class="o">=</span> <span class="s1">&#39;-&#39;</span><span class="p">),</span>
-<span class="p">)</span>
+<span class="n">arrow_x_left</span> <span class="o">=</span> <span class="n">x_sep_left</span> <span class="o">-</span> <span class="mf">0.2</span>
+<span class="n">arrow_x_right</span> <span class="o">=</span> <span class="n">x_sep_right</span> <span class="o">+</span> <span class="mf">0.2</span>
+<span class="n">arrow_y_left</span> <span class="o">=</span> <span class="mf">0.5</span><span class="o">*</span><span class="n">norm</span><span class="o">.</span><span class="n">pdf</span><span class="p">(</span><span class="n">x_sep_left</span><span class="p">)</span>
+<span class="n">arrow_y_right</span> <span class="o">=</span> <span class="mf">0.5</span><span class="o">*</span><span class="n">norm</span><span class="o">.</span><span class="n">pdf</span><span class="p">(</span><span class="n">x_sep_right</span><span class="p">)</span>
+
+<span class="n">plt</span><span class="o">.</span><span class="n">arrow</span><span class="p">(</span><span class="n">arrow_x_left</span><span class="p">,</span><span class="n">arrow_y_left</span><span class="p">,</span><span class="o">-</span><span class="mf">2.5</span><span class="o">-</span><span class="n">arrow_x_left</span><span class="p">,</span><span class="mf">0.2</span> <span class="o">-</span> <span class="n">norm</span><span class="o">.</span><span class="n">pdf</span><span class="p">(</span><span class="n">x_sep_left</span><span class="p">))</span>
+<span class="n">plt</span><span class="o">.</span><span class="n">text</span><span class="p">(</span><span class="o">-</span><span class="mf">2.5</span><span class="p">,</span><span class="mf">0.2</span><span class="p">,</span><span class="sa">r</span><span class="s2">&quot;$\alpha/2$&quot;</span><span class="p">,</span><span class="n">horizontalalignment</span><span class="o">=</span><span class="s1">&#39;center&#39;</span><span class="p">)</span>
+
+
+<span class="n">plt</span><span class="o">.</span><span class="n">arrow</span><span class="p">(</span><span class="n">arrow_x_right</span><span class="p">,</span><span class="n">arrow_y_right</span><span class="p">,</span><span class="mf">2.5</span><span class="o">-</span><span class="n">arrow_x_right</span><span class="p">,</span><span class="mf">0.2</span> <span class="o">-</span> <span class="n">norm</span><span class="o">.</span><span class="n">pdf</span><span class="p">(</span><span class="n">x_sep_left</span><span class="p">))</span>
+<span class="n">plt</span><span class="o">.</span><span class="n">text</span><span class="p">(</span><span class="mf">2.5</span><span class="p">,</span><span class="mf">0.2</span><span class="p">,</span><span class="sa">r</span><span class="s2">&quot;$\alpha/2$&quot;</span><span class="p">,</span><span class="n">horizontalalignment</span><span class="o">=</span><span class="s1">&#39;center&#39;</span><span class="p">)</span>
+
 
 <span class="n">plt</span><span class="o">.</span><span class="n">xlabel</span><span class="p">(</span><span class="s1">&#39;$x$&#39;</span><span class="p">)</span>
 <span class="n">plt</span><span class="o">.</span><span class="n">ylabel</span><span class="p">(</span><span class="s1">&#39;$p(x)$&#39;</span><span class="p">)</span>
 <span class="n">plt</span><span class="o">.</span><span class="n">ylim</span><span class="p">([</span><span class="mi">0</span><span class="p">,</span> <span class="mf">0.5</span><span class="p">])</span>
+
+
+
 <span class="n">sns</span><span class="o">.</span><span class="n">despine</span><span class="p">()</span>
+<span class="n">ax</span> <span class="o">=</span> <span class="n">plt</span><span class="o">.</span><span class="n">gca</span><span class="p">()</span>
+
+<span class="n">ax</span><span class="o">.</span><span class="n">set_xticks</span><span class="p">([</span><span class="n">x_sep_left</span><span class="p">,</span> <span class="mi">0</span><span class="p">,</span> <span class="n">x_sep_right</span><span class="p">])</span>
+<span class="n">ax</span><span class="o">.</span><span class="n">set_xticklabels</span><span class="p">([</span><span class="sa">r</span><span class="s1">&#39;$\Phi ^{-1}(\alpha/2)$&#39;</span><span class="p">,</span><span class="mi">0</span><span class="p">,</span><span class="sa">r</span><span class="s1">&#39;$\Phi ^{-1}(1-\alpha/2)$&#39;</span><span class="p">])</span>
 <span class="k">if</span> <span class="n">dev_mode</span><span class="p">:</span>
     <span class="n">savefig</span><span class="p">(</span><span class="s2">&quot;gaussianQuantile_latexified.pdf&quot;</span><span class="p">)</span>
-
-<span class="c1"># plt.show()</span>
 </pre></div>
 </div>
 </div>

diff --git a/_static/togglebutton.css b/_static/togglebutton.css
@@ -64,14 +64,24 @@ button.toggle-button {
     stroke: currentColor;  /* So that we inherit the color of other text */
 }
 
-details.toggle-details .tb-icon {
-    height: 1.3em;
-    width: 1.3em;
+/* Rotate icon with admonitions so that it points down */
+.admonition.toggle .tb-icon {
+    transform: rotate(-90deg);
 }
 
-.toggle-button-hidden .tb-icon {
-    transform: rotate(90deg);
+/* When the admonition is hidden, icon should flip upwards but retain rotation */
+/* We scaleX, in order to flip along Y, because it is rotated */
+.admonition.toggle .toggle-button-hidden .tb-icon {
+    transform: rotate(-90deg) scaleX(-1);
 }
+
+/* With details toggles, we don't rotate the icon so it points right */
+details.toggle-details .tb-icon {
+    height: 1.4em;
+    width: 1.4em;
+    margin-top: 0.1em;  /* To center the button vertically */
+}
+
 
 /**
  * Details-based toggles.
@@ -92,8 +102,12 @@ details.toggle-details summary {
     border-radius: .4em;
     border: 1px solid #ccc;
     background: #f8f8f8;
-    padding: 0.4em 1em 0.4em 0.5em; /* Less padding on left because the SVG has left margin */
-    font-size: .9em;
+    padding: 0.2em 0.7em 0.3em 0.5em; /* Less padding on left because the SVG has left margin */
+    font-size: 0.8em;
+}
+
+.toggle-details__summary-text {
+    margin-left: 0.2em;
 }
 
 details.toggle-details summary:hover {

diff --git a/_static/togglebutton.js b/_static/togglebutton.js
@@ -25,7 +25,7 @@ var initToggleItems = () => {
       }
       // This is the button that will be added to each item to trigger the toggle
       var collapseButton = `
-        <button type="button" id="${buttonID}" class="toggle-button" data-target="${toggleID}" data-button="${buttonID}", data-toggle-hint="${toggleHintShow}">
+        <button type="button" id="${buttonID}" class="toggle-button" data-target="${toggleID}" data-button="${buttonID}" data-toggle-hint="${toggleHintShow}" aria-label="Click to toggle content">
             ${toggleChevron}
         </button>`;
 
@@ -50,9 +50,9 @@ var initToggleItems = () => {
       // Define the structure of the details block and insert it as a sibling
       var detailsBlock = `
         <details class="toggle-details">
-            <summary>
+            <summary class="toggle-details__summary">
               ${toggleChevron}
-              <span>${toggleHintShow}</span>
+              <span class="toggle-details__summary-text">${toggleHintShow}</span>
             </summary>
         </details>`;
       item.insertAdjacentHTML("beforebegin", detailsBlock);
